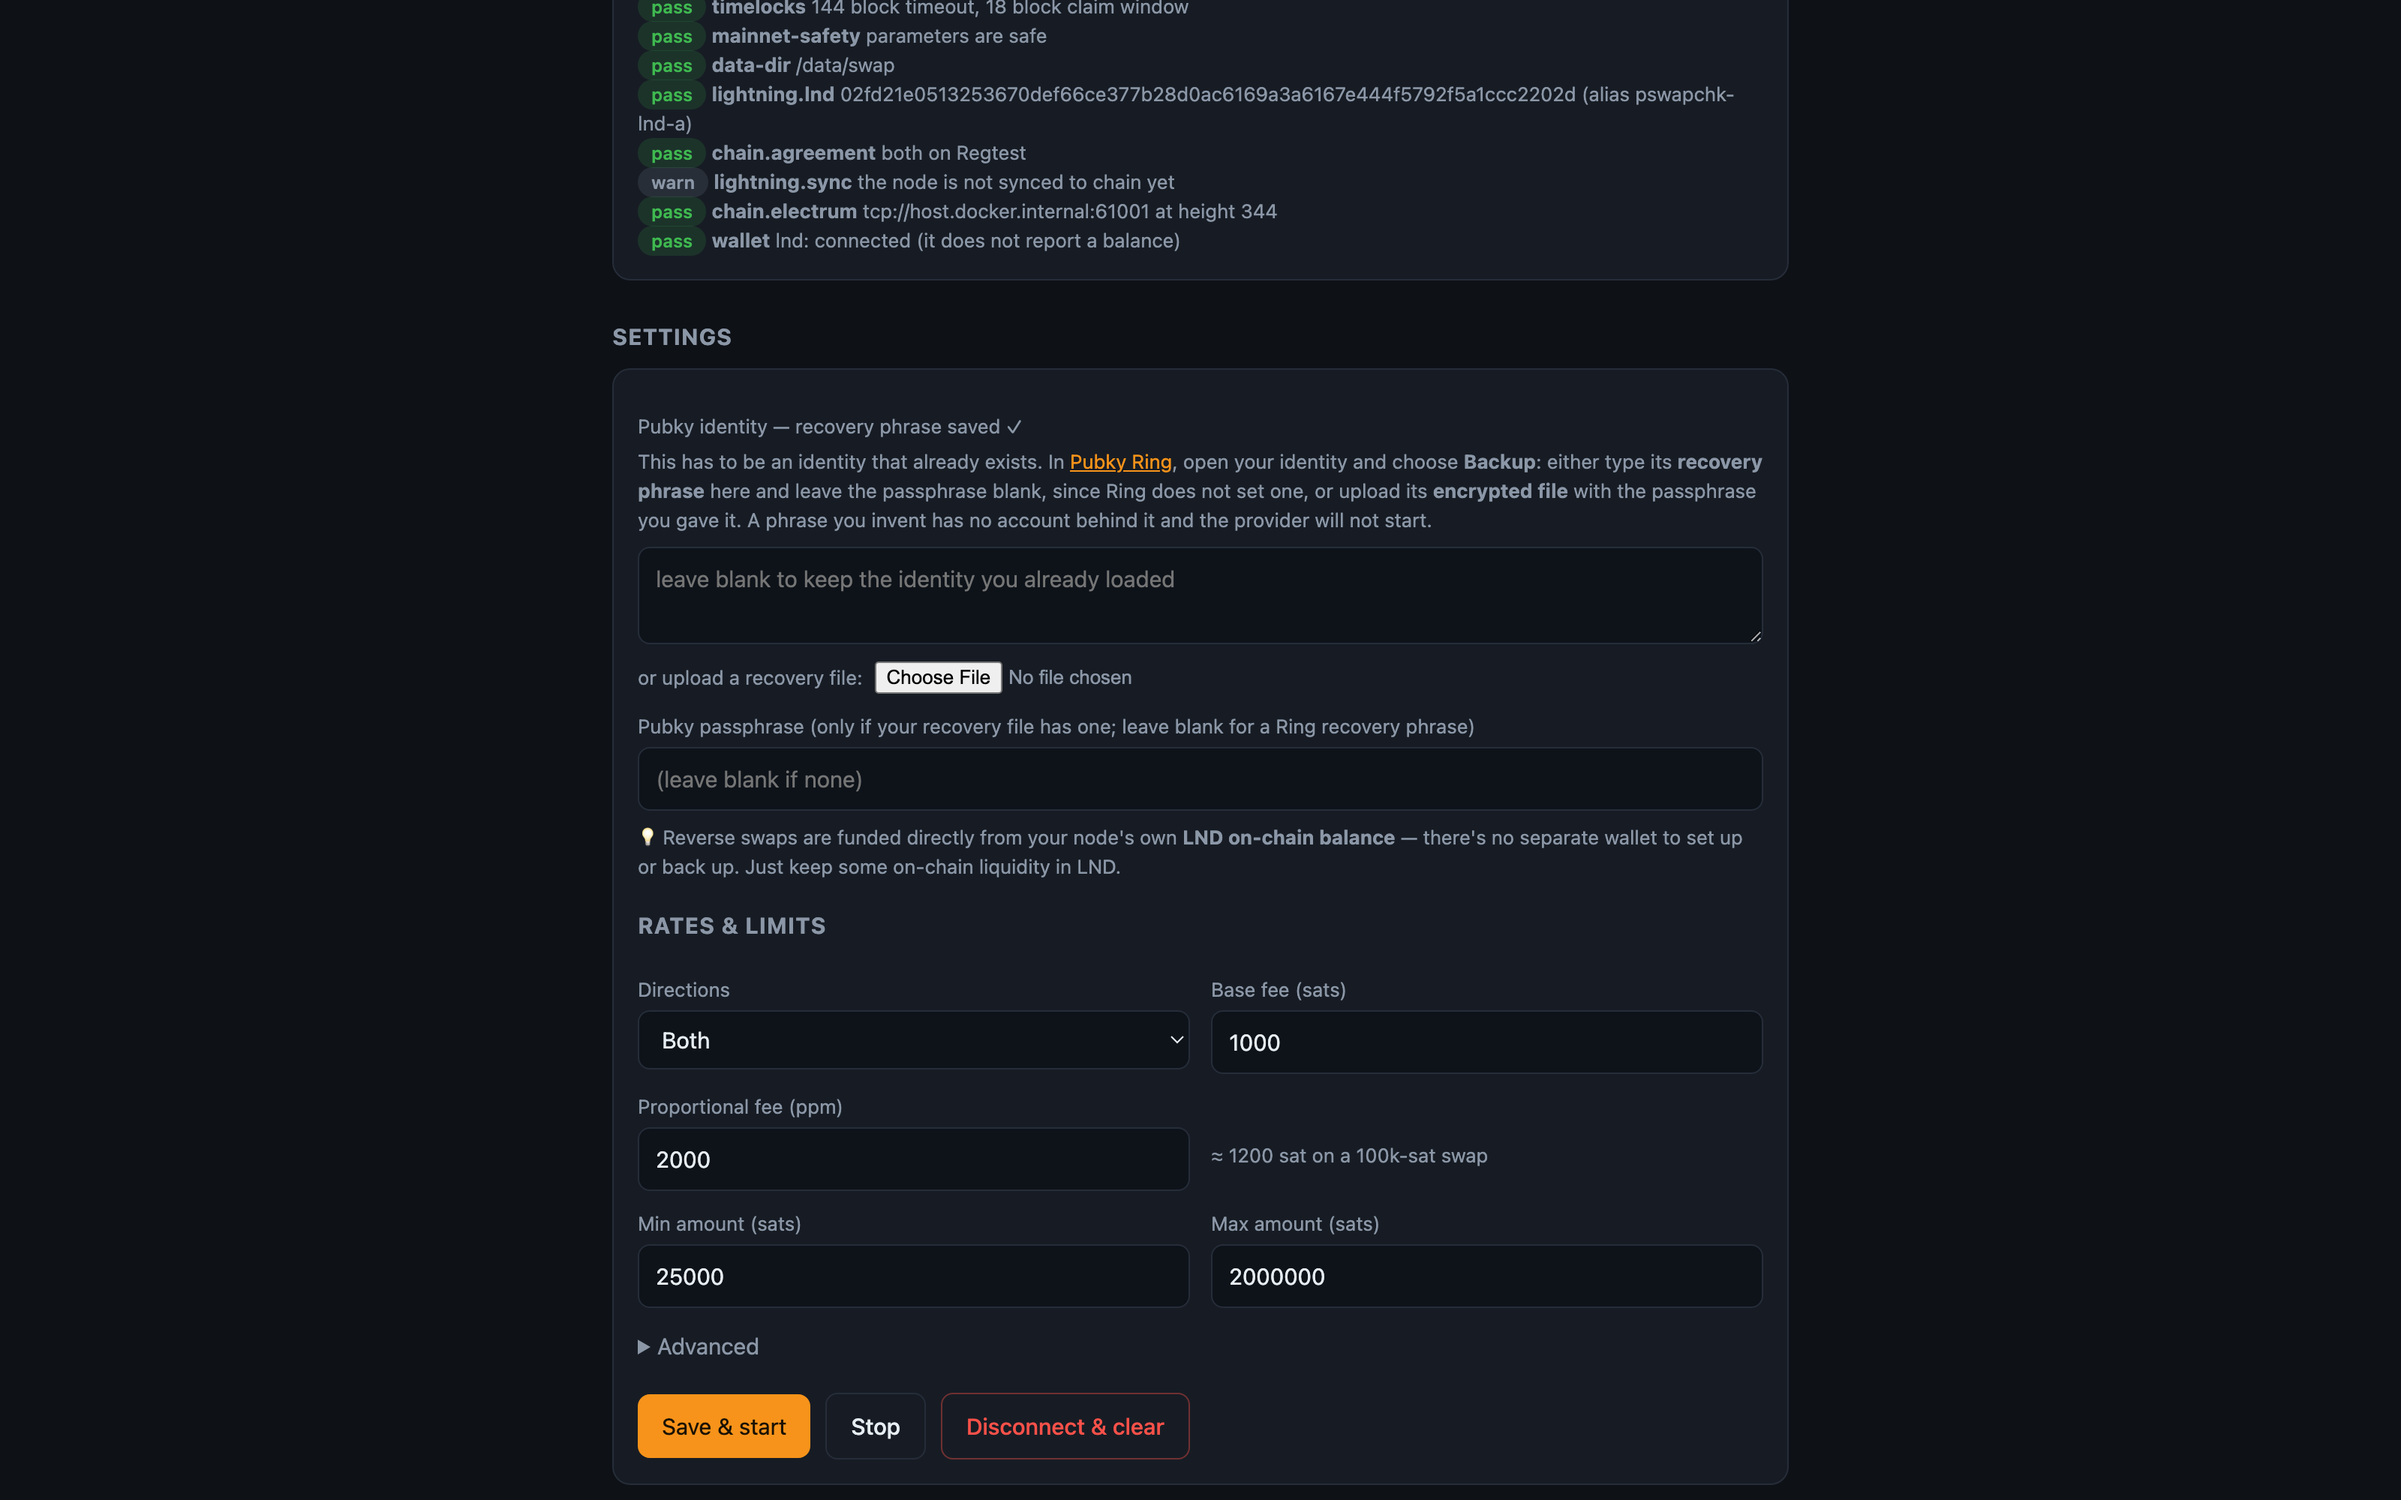
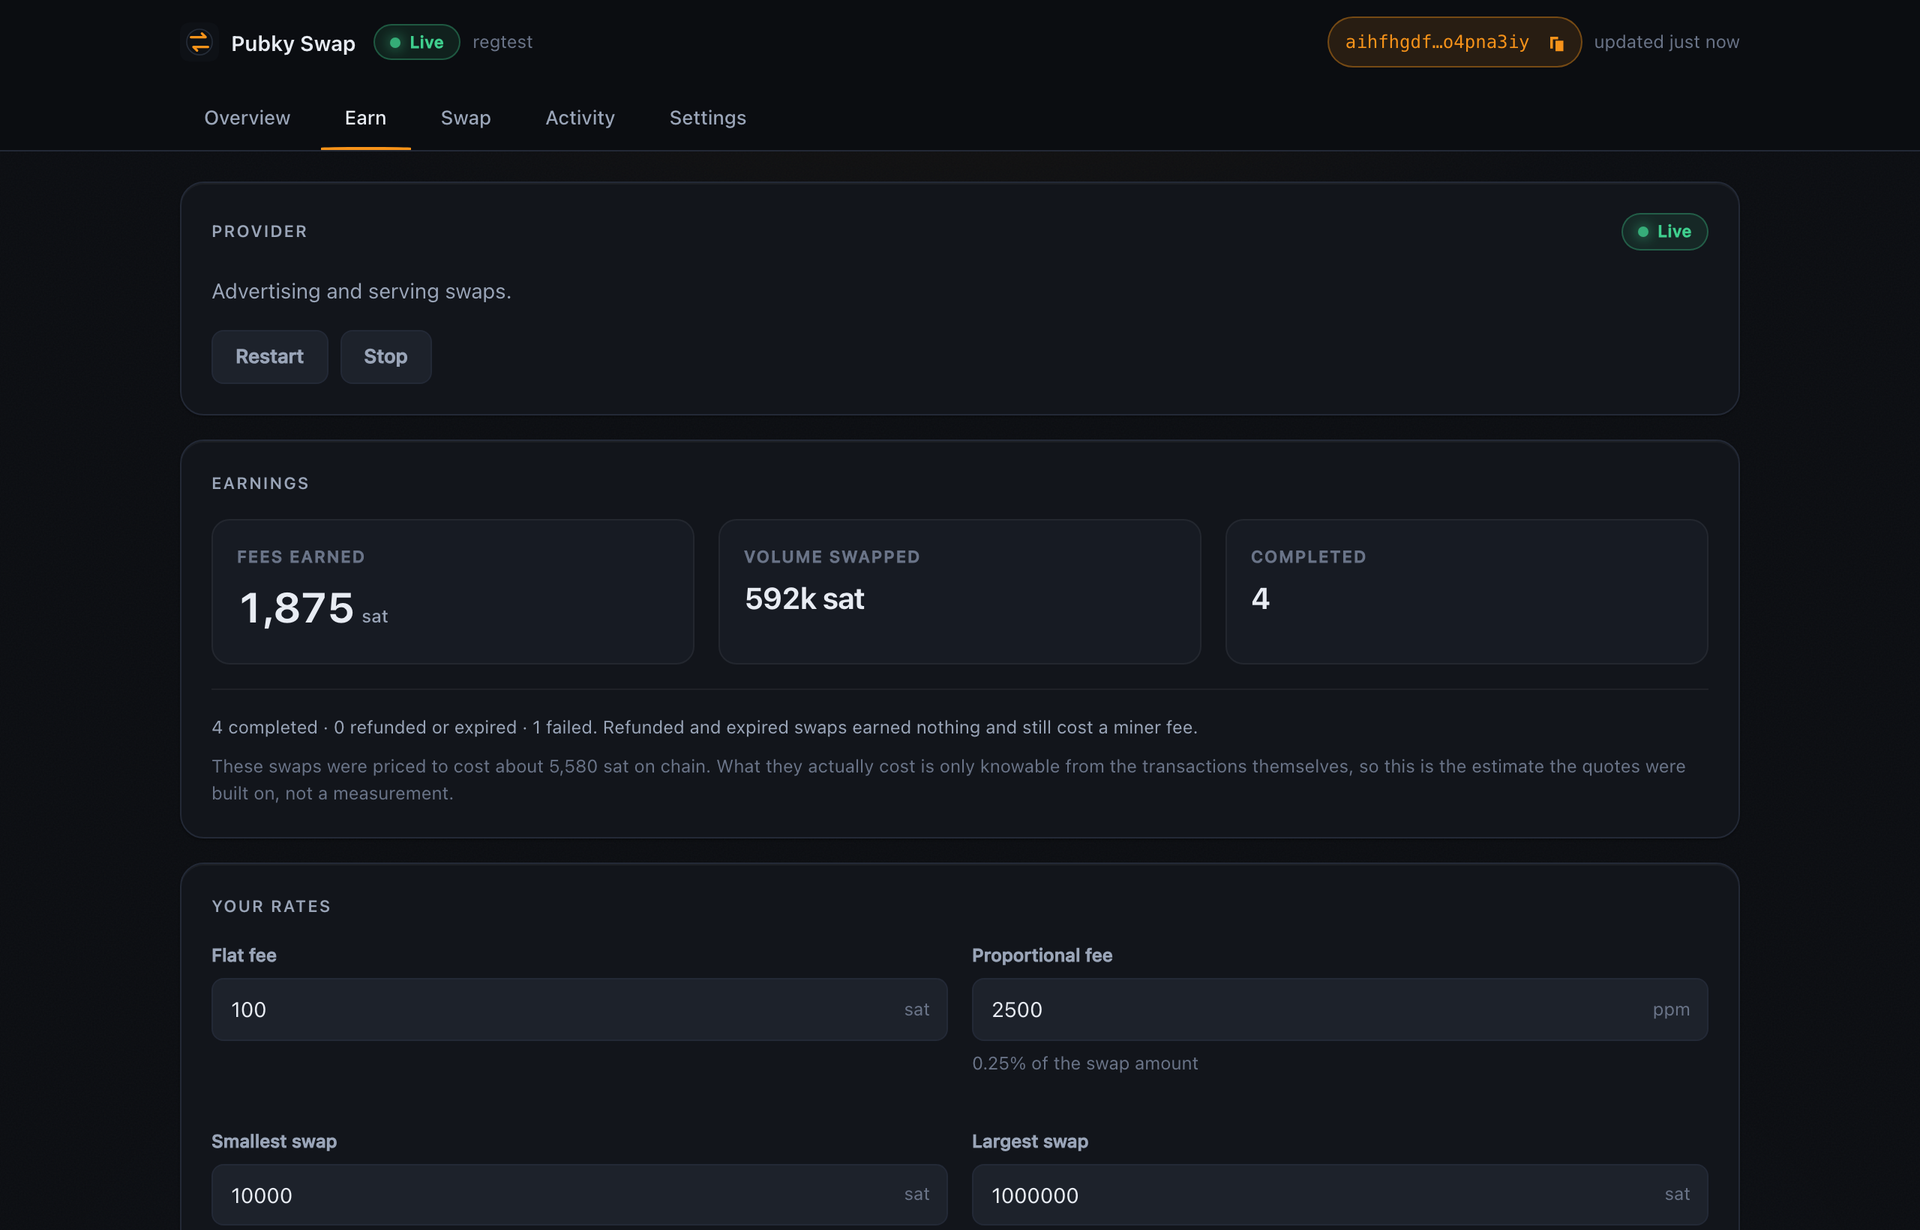
Start and stop the provider from Settings, and a gallery that matches
There was no way to stop the provider from Settings. The controls were
on Earn, next to the rates they affect, which is a reasonable place for
them and not the place anyone looks for a stop button. They are in both
now, rendered from one module, so the two cannot come to disagree about
whether stopping mid-swap is safe: the confirmation that says nothing
drives a swap while the provider is off, and a refund that comes due is
not broadcast, appears wherever you press Stop.

The Settings card also says which engine version is running, the
protocol it speaks, how long it has been up and how many swaps are in
flight, which is what you want in front of you when deciding whether to
restart it.

Activity had no direction column. It said how much and to whom and never
which way the sats went, which is the one thing that decides where your
money ended up. Reading a screenshot of it is what made that obvious.

The rates form labelled a field "Percentage" above a box containing 2500
and a hint reading 0.25%, which reads as a contradiction. It is the
proportional fee, measured in ppm.

The gallery images were the 0.1.3 single page: the STATUS table, the
permanent red banner, the flat settings form. None of it exists any
more, and they are what the app store shows. Retaken against the running
panel with real swaps behind it.

diff --git a/web/public/js/tabs/earn.js b/web/public/js/tabs/earn.js
@@ -10,6 +10,7 @@ import * as fmt from '../format.js';
 import * as c from '../components.js';
 import { api } from '../api.js';
 import { toast } from '../toast.js';
+import { describeProvider, providerControls } from '../providerstate.js';
 
 let fields = null;
 let dirty = false;
@@ -63,52 +64,13 @@ function providerCard(snap) {
       }));
   }
 
-  const views = {
-    stopped: ['Stopped', 'idle', 'Not advertising. Swaps already in flight are not being driven while this is off.'],
-    starting: ['Starting', 'info', 'Connecting to your node.'],
-    running: p.capable
-      ? ['Live', 'ok', 'Advertising and serving swaps.']
-      : ['Quoting only', 'warn', 'You are discoverable and you will quote a price, but every swap request is rejected until the checks below pass. Nobody loses money; they just cannot swap with you.'],
-    unreachable: ['Not answering', 'warn', 'The provider is running but its status API is not responding. It has not been restarted: a provider in the middle of a swap is still driving money.'],
-    restarting: ['Restarting', 'warn', `Restarting after an unexpected exit (attempt ${p.restartCount}).`],
-    refusing: ['Held back', 'bad', 'The provider refused to start on purpose, because starting would abandon swaps that are still in flight. This is not a crash.'],
-    failed: ['Refused to start', 'bad', 'The provider will not start with these settings.'],
-    stopping: ['Stopping', 'idle', 'Unwinding cleanly.'],
-  };
-  const [label, tone, body] = views[p.state] || ['Unknown', 'idle', ''];
-
-  const actions = [];
-  if (p.state === 'stopped' || p.state === 'failed' || p.state === 'refusing') {
-    actions.push(c.button({ label: 'Start', variant: 'primary', busyLabel: 'Starting', onClick: () => api.startProvider() }));
-  } else {
-    actions.push(c.button({ label: 'Restart', busyLabel: 'Restarting', onClick: () => api.restartProvider() }));
-    actions.push(c.button({ label: 'Stop', onClick: () => stopProvider(snap) }));
-  }
+  const { label, tone, body } = describeProvider(snap);
 
   return c.card({ title: 'Provider', actions: [c.badge(label, tone, { dot: true, pulse: tone === 'ok' })] },
     el('p.muted', { text: body }),
     p.fatal ? c.note('The engine said:', { tone: 'bad', quoted: p.fatal.message }) : null,
     p.restartInSecs != null ? el('p.small.muted', { text: `Next attempt in ${p.restartInSecs}s.` }) : null,
-    el('div.actions', {}, ...actions));
-}
-
-function stopProvider(snap) {
-  const inFlight = (snap.provider && snap.provider.inFlight) || 0;
-  if (!inFlight) return api.stopProvider();
-  // A stop with money in flight is worth one sentence about what it actually means.
-  const m = c.modal({
-    title: 'Stop the provider?',
-    body: el('div', {},
-      el('p', { text: `Nobody will find you and no new swaps will start. ${inFlight} swap${inFlight === 1 ? ' is' : 's are'} still in flight, and while the provider is stopped nothing is driving ${inFlight === 1 ? 'it' : 'them'} -- a refund that comes due will not be broadcast until you start it again.` }),
-    ),
-    actions: [
-      c.button({ label: 'Cancel', onClick: () => m.close() }),
-      c.button({
-        label: 'Stop anyway', variant: 'danger',
-        onClick: async () => { m.close(); await api.stopProvider(); toast('Provider stopping'); },
-      }),
-    ],
-  });
+    el('div.actions', {}, ...providerControls(snap)));
 }
 
 function earningsCard(snap) {
@@ -135,9 +97,11 @@ function ratesCard(snap) {
   const o = snap.offer;
 
   const base = c.numberField({ label: 'Flat fee', value: s.baseFee, min: 0, max: 1e9, unit: 'sat', onInput: onEdit });
+  // Labelled for what it is rather than for its unit: "Percentage" over a box containing 2500 and
+  // a hint reading 0.25% reads as a contradiction.
   const ppm = c.numberField({
-    label: 'Percentage', value: s.feePpm, min: 0, max: 1e7, unit: 'ppm', onInput: onEdit,
-    hint: `${(s.feePpm / 10000).toFixed(2)}% of the amount`,
+    label: 'Proportional fee', value: s.feePpm, min: 0, max: 1e7, unit: 'ppm', onInput: onEdit,
+    hint: `${(s.feePpm / 10000).toFixed(2)}% of the swap amount`,
   });
   const min = c.numberField({ label: 'Smallest swap', value: s.minAmount, min: 1, max: 1e12, unit: 'sat', onInput: onEdit });
   const max = c.numberField({ label: 'Largest swap', value: s.maxAmount, min: 1, max: 1e12, unit: 'sat', onInput: onEdit });

diff --git a/web/public/js/providerstate.js b/web/public/js/providerstate.js
@@ -1,0 +1,85 @@
+// How the provider's state is described, and the controls that change it. Layer 2.
+//
+// Shared, because it is rendered in two places: on Earn, next to the rates it affects, and in
+// Settings, where someone looking for a stop button expects to find one. Two copies of this would
+// drift, and the thing they would drift about is whether a daemon that is mid-swap is safe to
+// stop.
+
+import { el } from './dom.js';
+import * as c from './components.js';
+import { api } from './api.js';
+import { toast } from './toast.js';
+
+/**
+ * "Running" is not one state.
+ *
+ * A provider that is up but cannot execute quotes happily and rejects every swap. One that refused
+ * to start because starting would abandon funded swaps looks exactly like a crash loop and is the
+ * opposite of one. Each gets its own words.
+ */
+export function describeProvider(snap) {
+  const p = snap.provider;
+  const views = {
+    stopped: ['Stopped', 'idle',
+      'Not advertising. Swaps already in flight are not being driven while this is off.'],
+    starting: ['Starting', 'info', 'Connecting to your node.'],
+    running: p.capable
+      ? ['Live', 'ok', 'Advertising and serving swaps.']
+      : ['Quoting only', 'warn',
+        'You are discoverable and you will quote a price, but every swap request is rejected until the checks below pass. Nobody loses money; they just cannot swap with you.'],
+    unreachable: ['Not answering', 'warn',
+      'The provider is running but its status API is not responding. It has not been restarted: a provider in the middle of a swap is still driving money.'],
+    restarting: ['Restarting', 'warn', `Restarting after an unexpected exit (attempt ${p.restartCount}).`],
+    refusing: ['Held back', 'bad',
+      'The provider refused to start on purpose, because starting would abandon swaps that are still in flight. This is not a crash.'],
+    failed: ['Refused to start', 'bad', 'The provider will not start with these settings.'],
+    stopping: ['Stopping', 'idle', 'Unwinding cleanly.'],
+  };
+  const [label, tone, body] = views[p.state] || ['Unknown', 'idle', ''];
+  return { label, tone, body, state: p.state };
+}
+
+/** Start, or stop and restart. Never both sets at once. */
+export function providerControls(snap) {
+  const p = snap.provider;
+  const down = ['stopped', 'failed', 'refusing'].includes(p.state);
+  if (down) {
+    return [c.button({
+      label: 'Start', variant: 'primary', busyLabel: 'Starting',
+      onClick: async () => { await api.startProvider(); toast('Provider starting', 'ok'); },
+    })];
+  }
+  return [
+    c.button({
+      label: 'Restart', busyLabel: 'Restarting',
+      onClick: async () => { await api.restartProvider(); toast('Provider restarting'); },
+    }),
+    c.button({ label: 'Stop', onClick: () => confirmStop(snap) }),
+  ];
+}
+
+/**
+ * Stopping with money in flight is worth one sentence about what it actually means.
+ *
+ * Nothing drives a swap while the provider is off, and a refund that comes due is not broadcast,
+ * so this is the difference between a pause and an abandonment.
+ */
+function confirmStop(snap) {
+  const inFlight = (snap.provider && snap.provider.inFlight) || 0;
+  if (!inFlight) return api.stopProvider().then(() => toast('Provider stopping'));
+
+  const m = c.modal({
+    title: 'Stop the provider?',
+    body: el('div', {},
+      el('p', {
+        text: `Nobody will find you and no new swaps will start. ${inFlight} swap${inFlight === 1 ? ' is' : 's are'} still in flight, and while the provider is stopped nothing is driving ${inFlight === 1 ? 'it' : 'them'}: a refund that comes due will not be broadcast until you start it again.`,
+      })),
+    actions: [
+      c.button({ label: 'Cancel', onClick: () => m.close() }),
+      c.button({
+        label: 'Stop anyway', variant: 'danger',
+        onClick: async () => { m.close(); await api.stopProvider(); toast('Provider stopping'); },
+      }),
+    ],
+  });
+}

diff --git a/web/public/js/tabs/settings.js b/web/public/js/tabs/settings.js
@@ -10,6 +10,7 @@ import * as c from '../components.js';
 import { api } from '../api.js';
 import { toast } from '../toast.js';
 import { createLogView } from '../logview.js';
+import { describeProvider, providerControls } from '../providerstate.js';
 
 let logView = null;
 let advancedOpen = false;
@@ -26,6 +27,7 @@ export default {
       el('div', { attrs: { id: 'stDiag' } }),
       el('div', { attrs: { id: 'stElectrum' } }),
       el('div', { attrs: { id: 'stAdvanced' } }),
+      el('div', { attrs: { id: 'stProvider' } }),
       el('div', { attrs: { id: 'stLog' } }),
       el('div', { attrs: { id: 'stDanger' } })));
     fill(root.querySelector('#stLog'), c.card({ title: 'Provider log' }, logView.node));
@@ -36,6 +38,7 @@ export default {
     fill(root.querySelector('#stDiag'), diagnosticsCard(snap));
     if (!electrumDirty) fill(root.querySelector('#stElectrum'), electrumCard(snap));
     fill(root.querySelector('#stAdvanced'), advancedCard(snap));
+    fill(root.querySelector('#stProvider'), providerCard(snap));
     fill(root.querySelector('#stDanger'), dangerCard(snap));
   },
 
@@ -257,6 +260,47 @@ function advancedCard(snap) {
           toast('Saved. Restart the provider to apply.', 'ok');
         },
       })));
+}
+
+/**
+ * The daemon itself: what it is doing, and the buttons that change that.
+ *
+ * The same card is on Earn, next to the rates it affects. It is here too because this is where
+ * someone looks for a stop button, and a control you have to remember the location of is a control
+ * you cannot find when you need it. Both render from one module, so they cannot disagree about
+ * whether stopping mid-swap is safe.
+ */
+function providerCard(snap) {
+  const p = snap.provider;
+  const { label, tone, body } = describeProvider(snap);
+
+  if (snap.settings.role === 'taker' && p.state === 'stopped') {
+    return c.card({ title: 'Provider', actions: [c.badge('not advertising', 'idle')] },
+      el('p.muted', { text: 'This node is set up to swap its own funds only, so no provider runs.' }),
+      el('div.actions', {}, c.button({
+        label: 'Start earning too',
+        onClick: async () => {
+          await api.saveSettings({ role: 'both' });
+          await api.startProvider();
+          toast('Provider starting', 'ok');
+        },
+      })));
+  }
+
+  return c.card({
+    title: 'Provider',
+    actions: [c.badge(label, tone, { dot: true, pulse: tone === 'ok' })],
+    meta: p.uptimeSecs ? `up ${fmt.duration(p.uptimeSecs)}` : null,
+  },
+    el('p.muted', { text: body }),
+    p.fatal ? c.note('The engine said:', { tone: 'bad', quoted: p.fatal.message }) : null,
+    p.restartInSecs != null ? el('p.small.muted', { text: `Next attempt in ${p.restartInSecs}s.` }) : null,
+    c.detail([
+      ['Engine', p.engineVersion ? `pubky-swap ${p.engineVersion}` : null],
+      ['Protocol', p.protocolVersion == null ? null : String(p.protocolVersion)],
+      ['In flight', p.inFlight == null ? null : String(p.inFlight)],
+    ]),
+    el('div.actions', {}, ...providerControls(snap)));
 }
 
 function dangerCard(snap) {

diff --git a/web/public/js/tabs/activity.js b/web/public/js/tabs/activity.js
@@ -135,6 +135,7 @@ function tableCard(snap, root) {
   const table = el('table', {},
     el('thead', {}, el('tr', {},
       el('th', { text: '' }),
+      el('th', { text: 'Direction' }),
       el('th', { text: 'Amount' }),
       el('th', { text: 'Counterparty' }),
       el('th', { text: 'Progress' }),
@@ -173,6 +174,9 @@ function row(swap, snap) {
     attrs: { tabindex: '0', role: 'button', 'aria-label': `${directionLabel(swap.direction, { role: swap.role })}, ${fmt.sats(swap.onchain_amount_sat)}, ${d.headline}` },
   },
     el('td', {}, c.badge(swap.role === 'client' ? 'yours' : 'served', swap.role === 'client' ? 'accent' : 'idle')),
+    // Which way the sats went. Without it the table says how much and to whom and never what
+    // happened, and the two directions put your money in opposite places.
+    el('td.small.muted', { text: directionLabel(swap.direction, { role: swap.role, short: true }) }),
     el('td.num', { text: fmt.sats(swap.onchain_amount_sat) }),
     el('td.mono.small', { text: fmt.shortKey(swap.peer) }),
     el('td', {}, el('div.row', { style: { gap: 'var(--s-2)' } }, track(swap, { compact: true }), el('span.small.muted', { text: d.headline }))),

diff --git a/web/public/js/swapview.js b/web/public/js/swapview.js
@@ -226,10 +226,18 @@ export function exposureLine(swap, { role = 'provider' } = {}) {
     : 'Nothing of yours is committed.';
 }
 
-export function directionLabel(direction, { role = 'provider' } = {}) {
+/**
+ * Which way the sats went, from the reader's side of the table.
+ *
+ * The technical names appear nowhere here: nobody thinks in submarine and reverse, they think
+ * about which side their coins end up on. `short` is for a table column, where the full phrasing
+ * would dominate the row.
+ */
+export function directionLabel(direction, { role = 'provider', short = false } = {}) {
   if (role === 'client') {
     return direction === 'submarine' ? 'Send on-chain' : 'Receive on-chain';
   }
+  if (short) return direction === 'submarine' ? 'They sent' : 'They received';
   return direction === 'submarine' ? 'They sent on-chain' : 'They received on-chain';
 }
 
